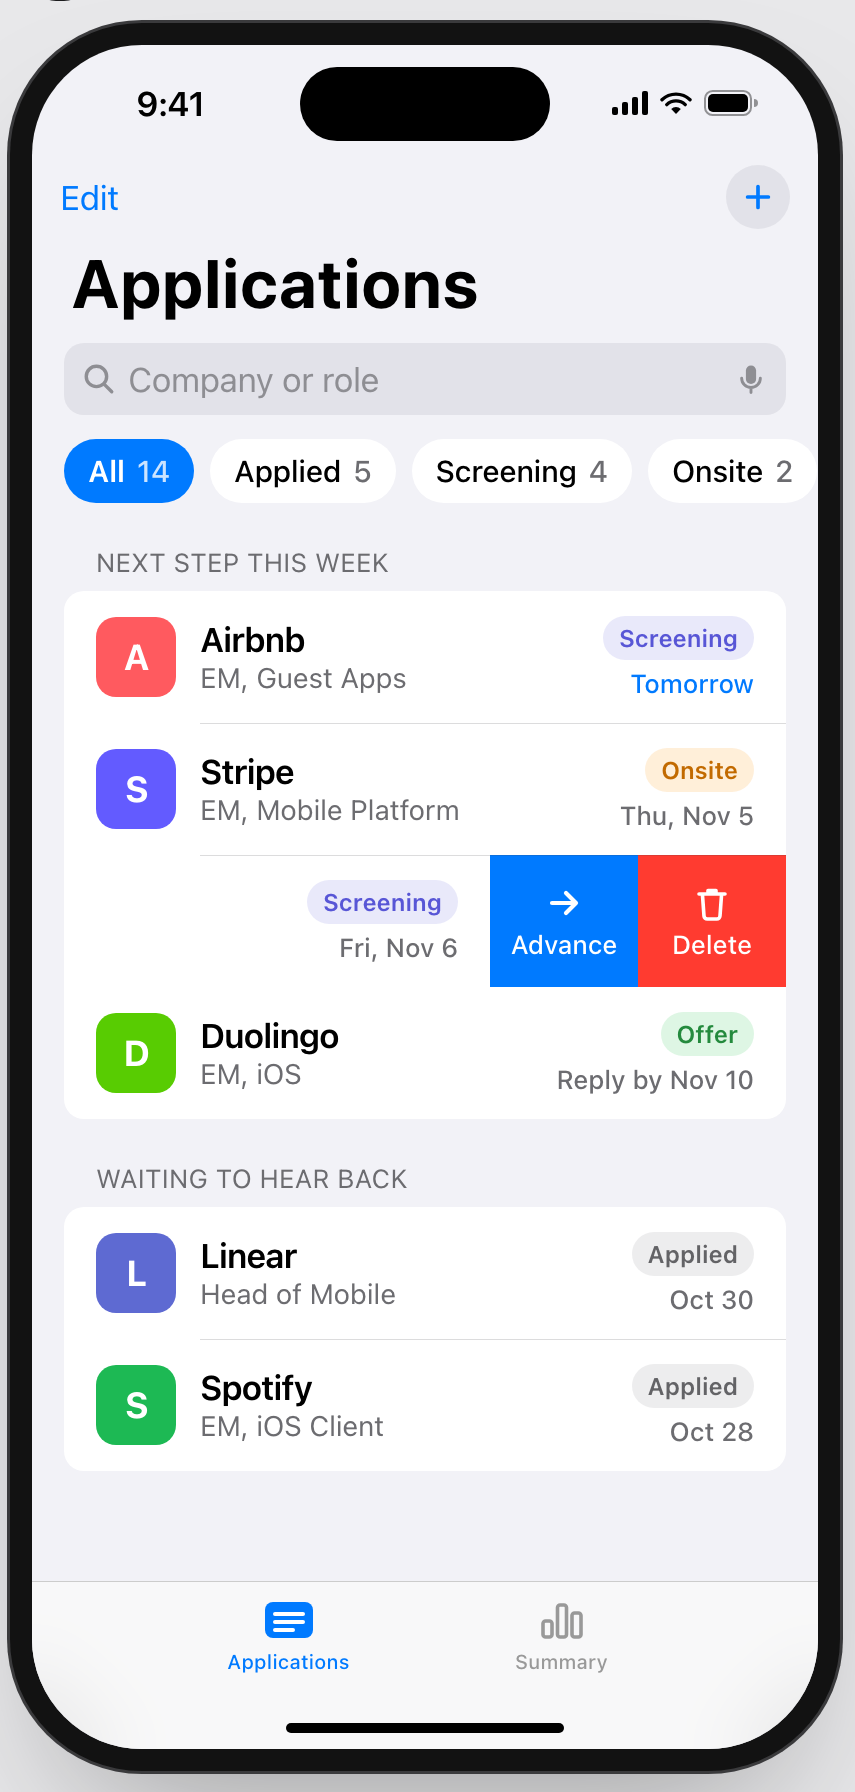
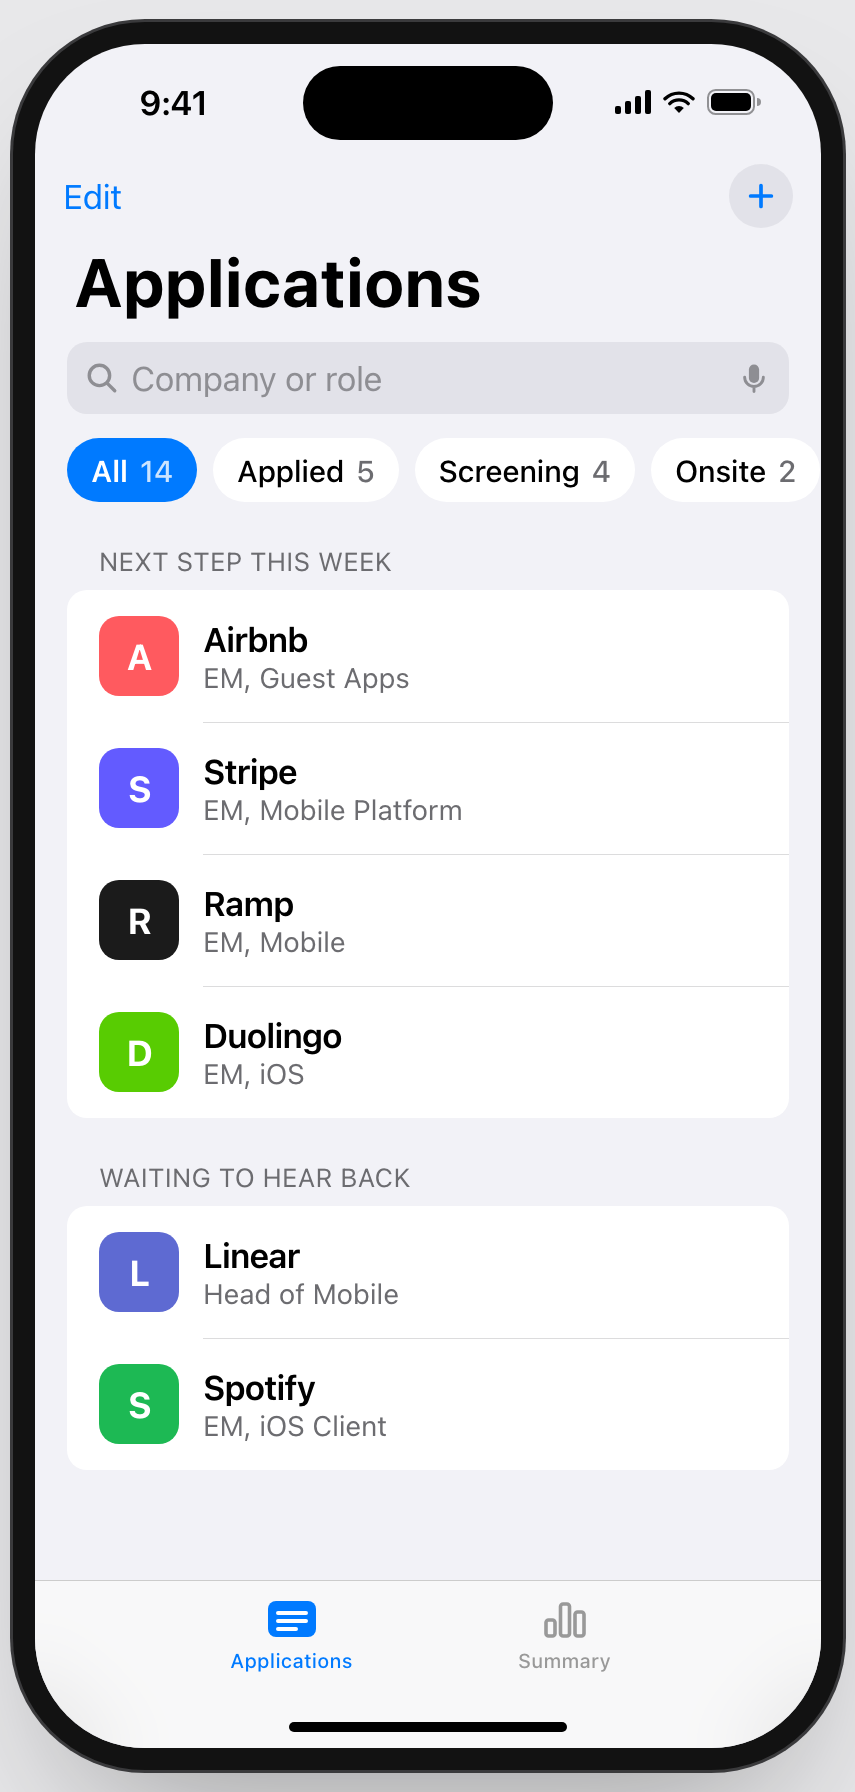
removed the swipe gesture

diff --git a/mockups/job-tracker.html b/mockups/job-tracker.html
@@ -100,21 +100,6 @@
   .a .logo { width: 40px; height: 40px; border-radius: 10px; display: flex; align-items: center; justify-content: center; color: #fff; font-weight: 700; font-size: 18px; flex-shrink: 0; letter-spacing: -0.3px; }
   .a .co { font-size: 17px; font-weight: 600; letter-spacing: -0.2px; }
   .a .role { font-size: 14px; color: var(--ink2); margin-top: 1px; white-space: nowrap; overflow: hidden; text-overflow: ellipsis; }
-  .a .meta { display: flex; flex-direction: column; align-items: flex-end; gap: 4px; flex-shrink: 0; }
-  .a .when { font-size: 13px; color: var(--ink2); font-weight: 500; }
-  .a .when.soon { color: var(--tint); }
-  .a .cap { font-size: 12px; font-weight: 600; height: 22px; padding: 0 8px; border-radius: 11px; display: inline-flex; align-items: center; white-space: nowrap; }
-  .a .cap.applied { color: #636366; background: rgba(142,142,147,.16); }
-  .a .cap.screening { color: var(--screening); background: rgba(88,86,214,.13); }
-  .a .cap.onsite { color: #C26A00; background: rgba(255,149,0,.15); }
-  .a .cap.offer { color: #248A3D; background: rgba(52,199,89,.16); }
-  .a .cap.rejected { color: #D70015; background: rgba(255,59,48,.12); }
-
-  .a .swipe { position: relative; height: 66px; }
-  .a .swipe .slide { position: absolute; inset: 0; transform: translateX(-148px); background: var(--card); display: flex; align-items: center; gap: 12px; padding: 0 16px; }
-  .a .swipe .actions { position: absolute; top: 0; right: 0; bottom: 0; width: 148px; display: flex; }
-  .a .swipe .actions div { flex: 1; display: flex; flex-direction: column; align-items: center; justify-content: center; gap: 3px; color: #fff; font-size: 13px; font-weight: 500; }
-  .a .swipe::before { content: ""; position: absolute; top: 0; left: 68px; right: 0; border-top: 0.5px solid var(--sep); z-index: 2; }
 
   .a .tabbar {
     position: absolute; left: 0; right: 0; bottom: 0; height: 84px; z-index: 30;
@@ -230,11 +215,9 @@
     <symbol id="flag" viewBox="0 0 20 20"><path d="M5 18V3M5 3.5h10l-2.2 3.5L15 10.5H5" fill="none" stroke="currentColor" stroke-width="1.9" stroke-linecap="round" stroke-linejoin="round"/></symbol>
     <symbol id="cal" viewBox="0 0 20 20"><rect x="2.5" y="4" width="15" height="13.5" rx="3" fill="none" stroke="currentColor" stroke-width="1.8"/><path d="M2.5 8.5h15M6.5 2.5v3M13.5 2.5v3" stroke="currentColor" stroke-width="1.8" stroke-linecap="round"/></symbol>
     <symbol id="bell" viewBox="0 0 20 20"><path d="M5 14V9.5a5 5 0 0 1 10 0V14l1.3 1.7H3.7Z" fill="currentColor"/><path d="M8.3 17.8h3.4" stroke="currentColor" stroke-width="1.7" stroke-linecap="round"/></symbol>
-    <symbol id="arrow-r" viewBox="0 0 20 20"><path d="M4 10h12M11 5l5 5-5 5" fill="none" stroke="currentColor" stroke-width="2.1" stroke-linecap="round" stroke-linejoin="round"/></symbol>
     <symbol id="arrow-d" viewBox="0 0 12 12"><path d="M6 2v8M2.8 7 6 10.2 9.2 7" fill="none" stroke="currentColor" stroke-width="1.6" stroke-linecap="round" stroke-linejoin="round"/></symbol>
     <symbol id="ellipsis" viewBox="0 0 20 20"><circle cx="4.5" cy="10" r="1.8" fill="currentColor"/><circle cx="10" cy="10" r="1.8" fill="currentColor"/><circle cx="15.5" cy="10" r="1.8" fill="currentColor"/></symbol>
     <symbol id="xmark" viewBox="0 0 20 20"><path d="m5.5 5.5 9 9M14.5 5.5l-9 9" stroke="currentColor" stroke-width="2" stroke-linecap="round"/></symbol>
-    <symbol id="trash" viewBox="0 0 20 20"><path d="M3.5 5.5h13M8 5.5V3.8h4v1.7M5.2 5.5l.8 11a1.6 1.6 0 0 0 1.6 1.5h4.8a1.6 1.6 0 0 0 1.6-1.5l.8-11" fill="none" stroke="currentColor" stroke-width="1.8" stroke-linecap="round" stroke-linejoin="round"/></symbol>
     <symbol id="spinner" viewBox="0 0 20 20"><g stroke="currentColor" stroke-width="2" stroke-linecap="round"><path d="M10 2v4" opacity="1"/><path d="m15.66 4.34-2.83 2.83" opacity=".88"/><path d="M18 10h-4" opacity=".76"/><path d="m15.66 15.66-2.83-2.83" opacity=".64"/><path d="M10 18v-4" opacity=".52"/><path d="m4.34 15.66 2.83-2.83" opacity=".4"/><path d="M2 10h4" opacity=".3"/><path d="m4.34 4.34 2.83 2.83" opacity=".2"/></g></symbol>
     <symbol id="warn" viewBox="0 0 20 20"><path d="M10 2.5 18.5 17h-17Z" fill="currentColor" stroke="currentColor" stroke-width="1.5" stroke-linejoin="round"/><path d="M10 8v4" stroke="#fff" stroke-width="1.9" stroke-linecap="round"/><circle cx="10" cy="14.6" r="1.1" fill="#fff"/></symbol>
     <symbol id="dup" viewBox="0 0 20 20"><rect x="6.5" y="6.5" width="11" height="11" rx="2.5" fill="none" stroke="currentColor" stroke-width="1.8"/><path d="M13.5 4.5v-.5a1.5 1.5 0 0 0-1.5-1.5H4A1.5 1.5 0 0 0 2.5 4v8A1.5 1.5 0 0 0 4 13.5h.5" fill="none" stroke="currentColor" stroke-width="1.8" stroke-linecap="round"/></symbol>
@@ -295,28 +278,18 @@
             <div class="row app">
               <div class="logo" style="background:#FF5A5F">A</div>
               <div class="grow"><div class="co">Airbnb</div><div class="role">EM, Guest Apps</div></div>
-              <div class="meta"><span class="cap screening">Screening</span><span class="when soon">Tomorrow</span></div>
             </div>
             <div class="row app">
               <div class="logo" style="background:#635BFF">S</div>
               <div class="grow"><div class="co">Stripe</div><div class="role">EM, Mobile Platform</div></div>
-              <div class="meta"><span class="cap onsite">Onsite</span><span class="when">Thu, Nov 5</span></div>
             </div>
-            <div class="swipe">
-              <div class="actions">
-                <div style="background:#007AFF"><svg class="i" width="20" height="20"><use href="#arrow-r"/></svg>Advance</div>
-                <div style="background:#FF3B30"><svg class="i" width="20" height="20"><use href="#trash"/></svg>Delete</div>
-              </div>
-              <div class="slide">
-                <div class="logo" style="background:#1B1B1B">R</div>
-                <div class="grow" style="flex:1;min-width:0"><div class="co">Ramp</div><div class="role">EM, Mobile</div></div>
-                <div class="meta"><span class="cap screening">Screening</span><span class="when">Fri, Nov 6</span></div>
-              </div>
+            <div class="row app">
+              <div class="logo" style="background:#1B1B1B">R</div>
+              <div class="grow"><div class="co">Ramp</div><div class="role">EM, Mobile</div></div>
             </div>
             <div class="row app">
               <div class="logo" style="background:#58CC02">D</div>
               <div class="grow"><div class="co">Duolingo</div><div class="role">EM, iOS</div></div>
-              <div class="meta"><span class="cap offer">Offer</span><span class="when">Reply by Nov 10</span></div>
             </div>
           </div>
 
@@ -325,12 +298,10 @@
             <div class="row app">
               <div class="logo" style="background:#5E6AD2">L</div>
               <div class="grow"><div class="co">Linear</div><div class="role">Head of Mobile</div></div>
-              <div class="meta"><span class="cap applied">Applied</span><span class="when">Oct 30</span></div>
             </div>
             <div class="row app">
               <div class="logo" style="background:#1DB954">S</div>
               <div class="grow"><div class="co">Spotify</div><div class="role">EM, iOS Client</div></div>
-              <div class="meta"><span class="cap applied">Applied</span><span class="when">Oct 28</span></div>
             </div>
           </div>
         </div>
@@ -343,8 +314,7 @@
       <ul class="notes">
         <li><b>Data</b>: the list comes from <code>@Query(sort: \.nextStepDate)</code>. The filter chips change the query's <code>#Predicate</code> rather than filtering an array in the view.</li>
         <li><b>Sections</b>: rows are grouped by whether they have a next step, so what needs attention is at the top. Be ready to explain why you didn't group by stage.</li>
-        <li><b>Swipe actions</b>: <code>.swipeActions</code> offers Advance and Delete. Advance calls the same function the unit tests cover.</li>
-        <li><b>Accessibility</b>: each row reads as one <code>.accessibilityElement(children: .combine)</code>, for example "Airbnb, EM Guest Apps, Screening, next step tomorrow".</li>
+        <li><b>Accessibility</b>: each row reads as one <code>.accessibilityElement(children: .combine)</code>, for example "Airbnb, EM Guest Apps".</li>
       </ul>
     </div>
 
